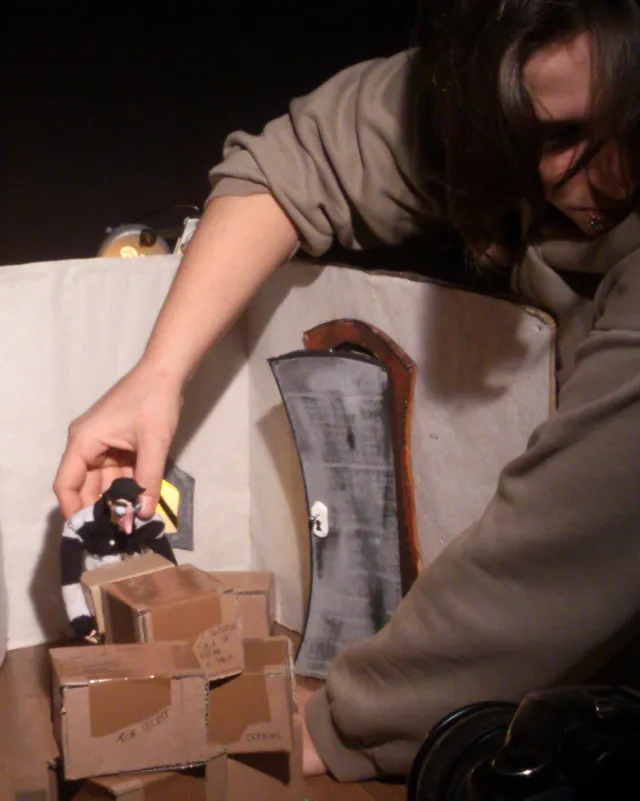
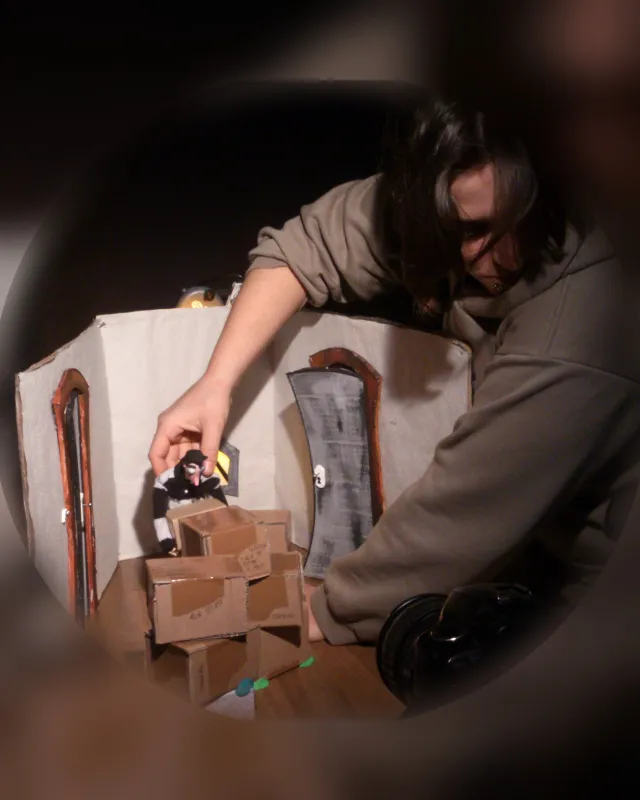
fix: 2010 and 2014 photos fit whole in their cards

diff --git a/src/styles/timeline.css b/src/styles/timeline.css
@@ -9,8 +9,8 @@
 /* Portrait media so the whole action shows. On short screens the height is capped and the
    crop moves to the part that matters in each picture. */
 .tl__card img { width: 100%; height: auto; aspect-ratio: 4 / 5; max-height: 31vh; object-fit: cover; border-bottom: var(--border); }
-.tl__card img.tl__img--sm { object-position: 50% 60%; }
-.tl__card img.tl__img--cam { object-position: 50% 60%; }
+/* 2010 and 2014 hold the whole round photo centered on a blurred backdrop, so they crop from the center */
+.tl__card img.tl__img--sm, .tl__card img.tl__img--cam { object-position: 50% 50%; }
 .tl__card img.tl__img--lesson { object-position: 50% 45%; }
 .tl__card img.tl__img--top { object-position: 50% 0; }
 .tl__card p { padding: 8px 10px 10px; font-size: 12px; line-height: 1.32; }
